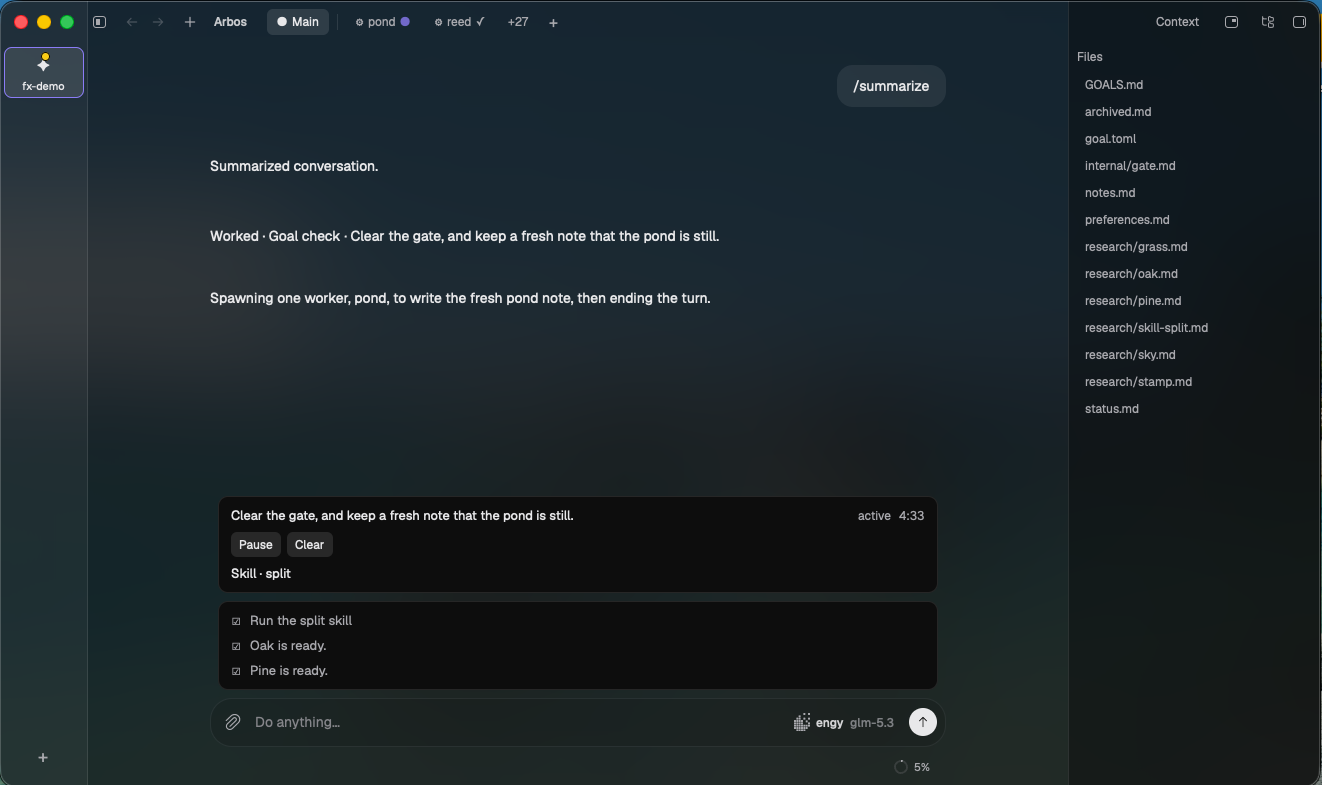
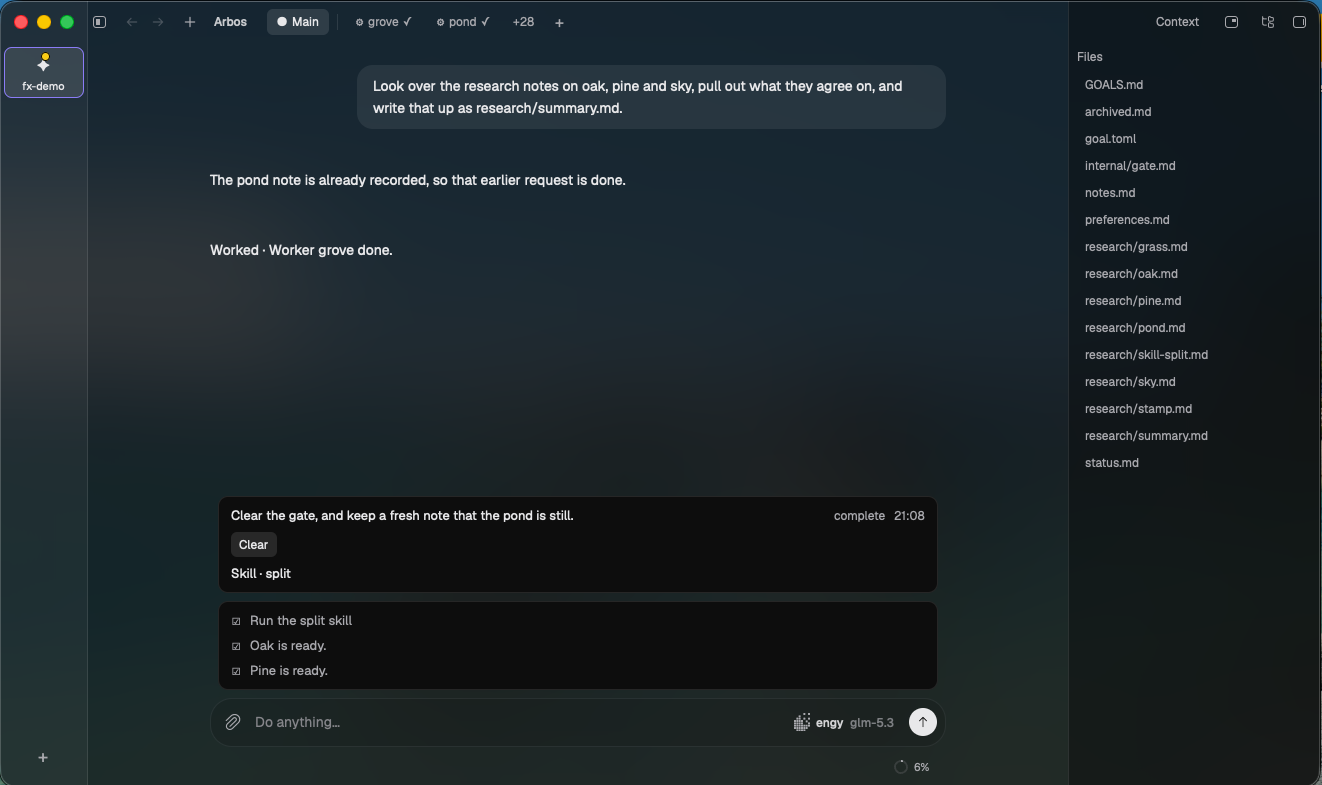
Show Main handing a research question to one worker.

diff --git a/README.md b/README.md
@@ -4,6 +4,6 @@ Arbos is a coding agent for one project. Talk to Main, watch workers, keep the w
 
 [Download Arbos for Mac](https://github.com/unarbos/arbos/releases/download/v0.2.112/Arbos-0.2.112-macos-arm64.dmg)
 
-![The goal stays active after a check, and Main sends a worker.](docs/images/arbos.png)
+![A research question goes to one worker, and the worker reports back.](docs/images/arbos.png)
 
 The left bar lists your projects. Each project has one Main chat. Main sends work to workers, and those workers report back into that chat. Press Command+ to open another chat in the same project. Those chats are tabs along the top. A checklist sits under Main. Context holds the notes the project shares.
